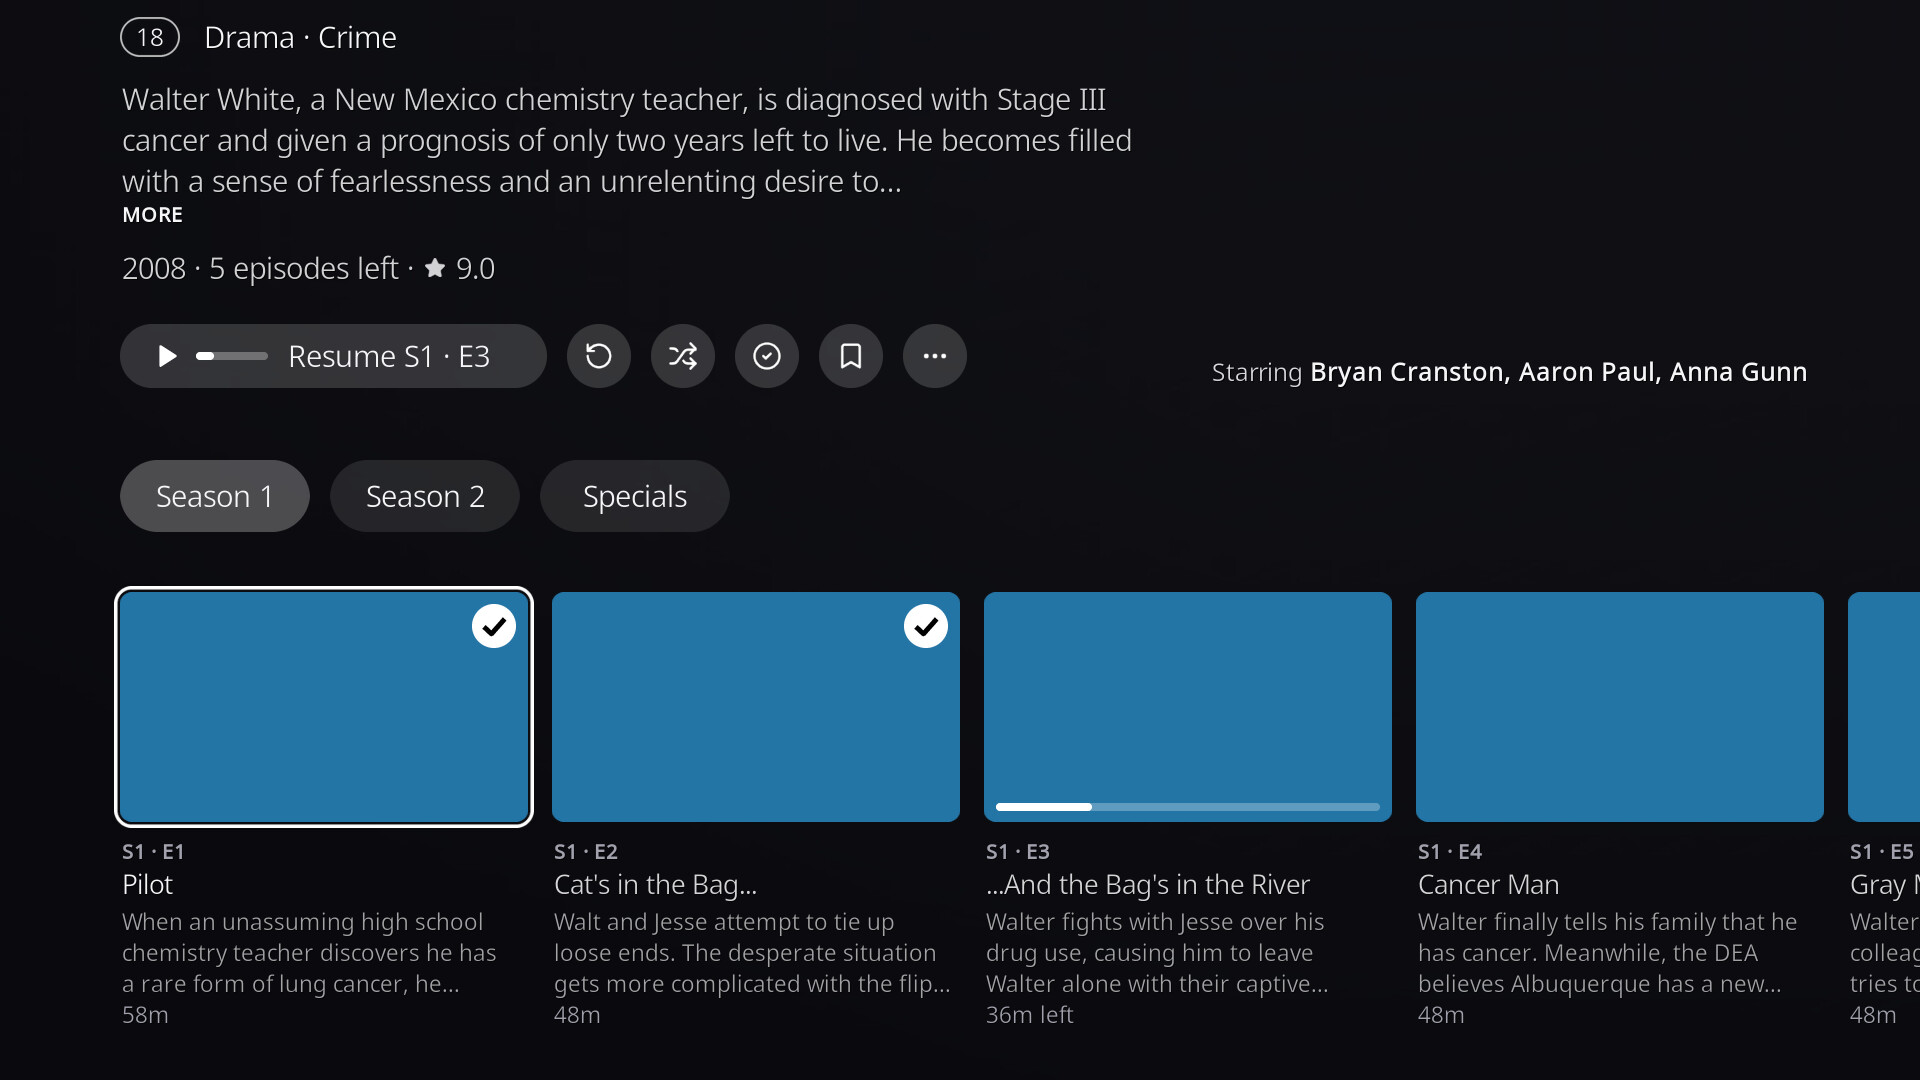
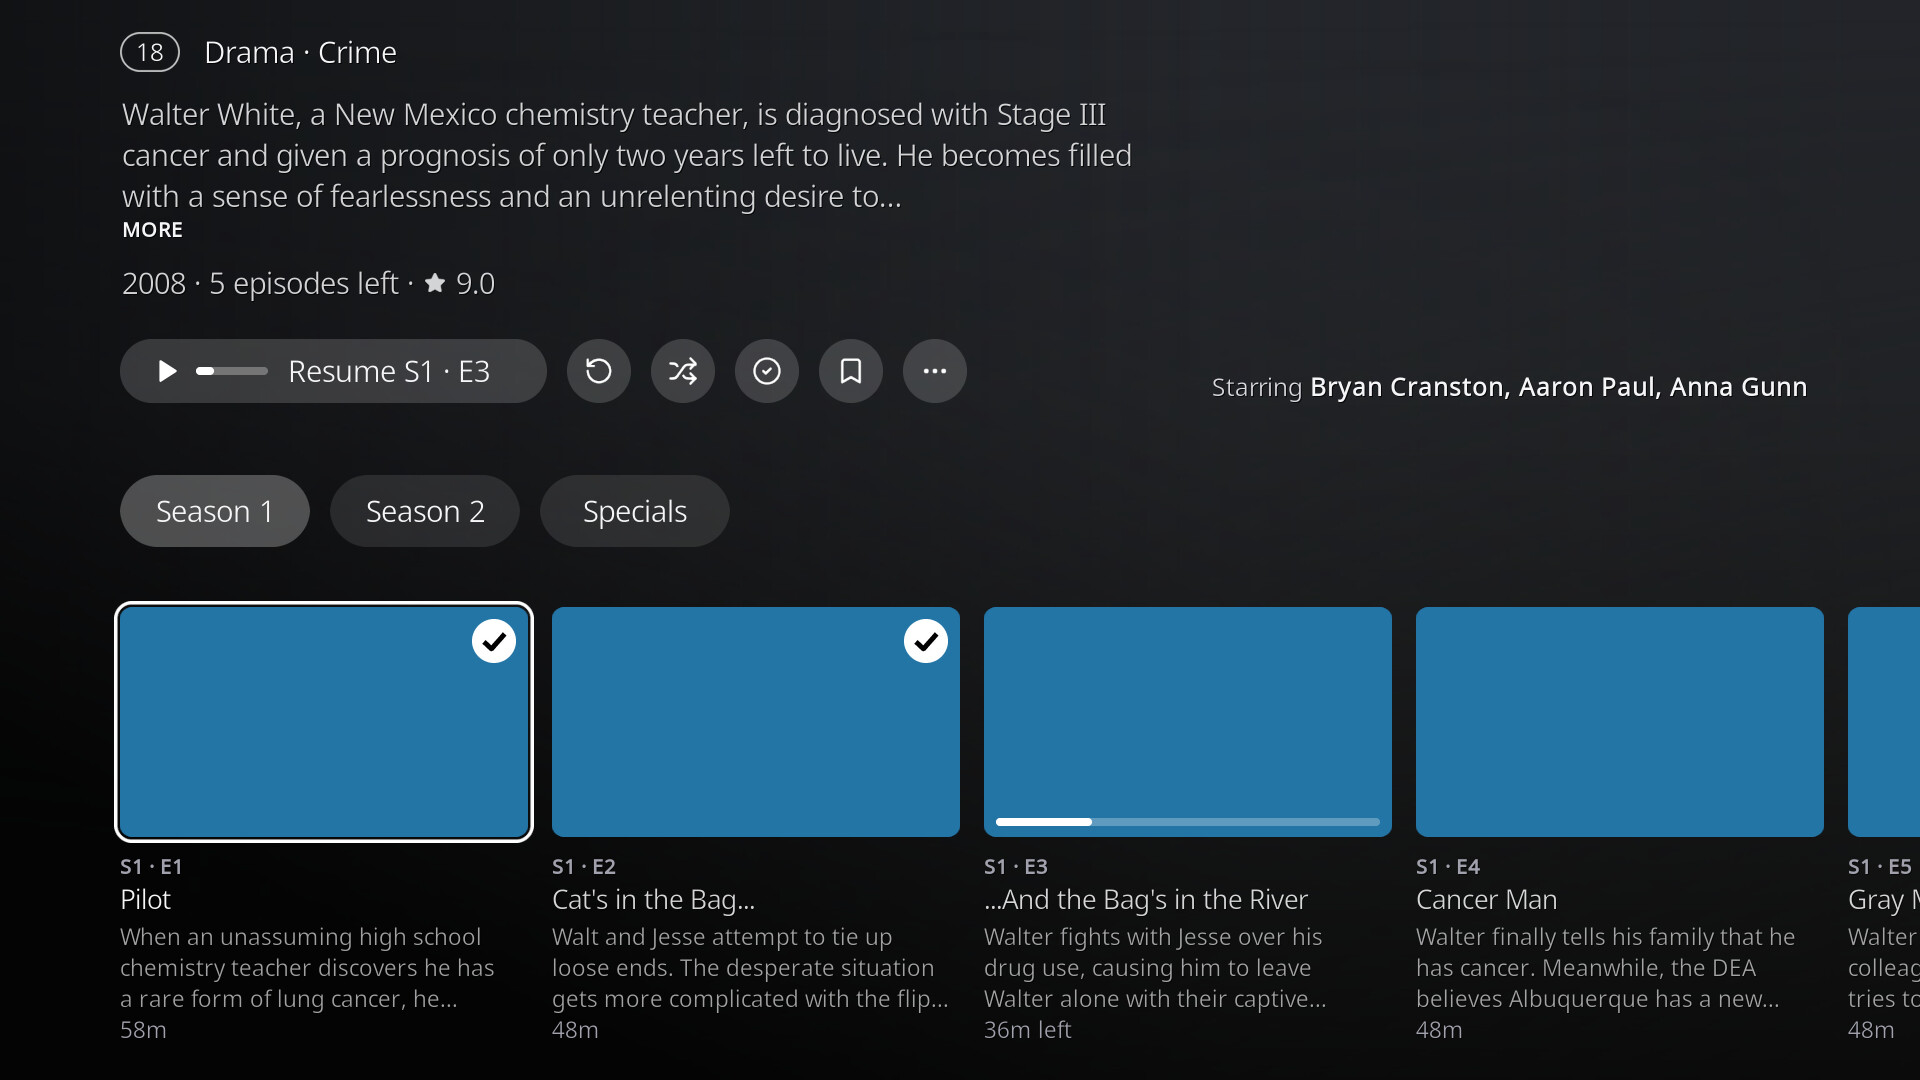
Align Kodi episode captions with the thumbnail edge
Give the episode number, title and synopsis the same left inset as the artwork.

diff --git a/docs/changes/2026-11-26-episode-row-peek.md b/docs/changes/2026-11-26-episode-row-peek.md
@@ -2,7 +2,8 @@
 
 Season shelves show four full episode cards and a sliver of the fifth at
 1080p, following Arc for Android TV. Episode artwork keeps its 16:9 proportions.
-The episode number, title, synopsis and duration use the narrower card width.
+The episode number, title, synopsis and duration align with the thumbnail’s
+left edge and use the narrower card width.
 The shelf still scrolls to bring the focused card fully into view.
 
 The change applies to series episode cards. Card sizes elsewhere use their
